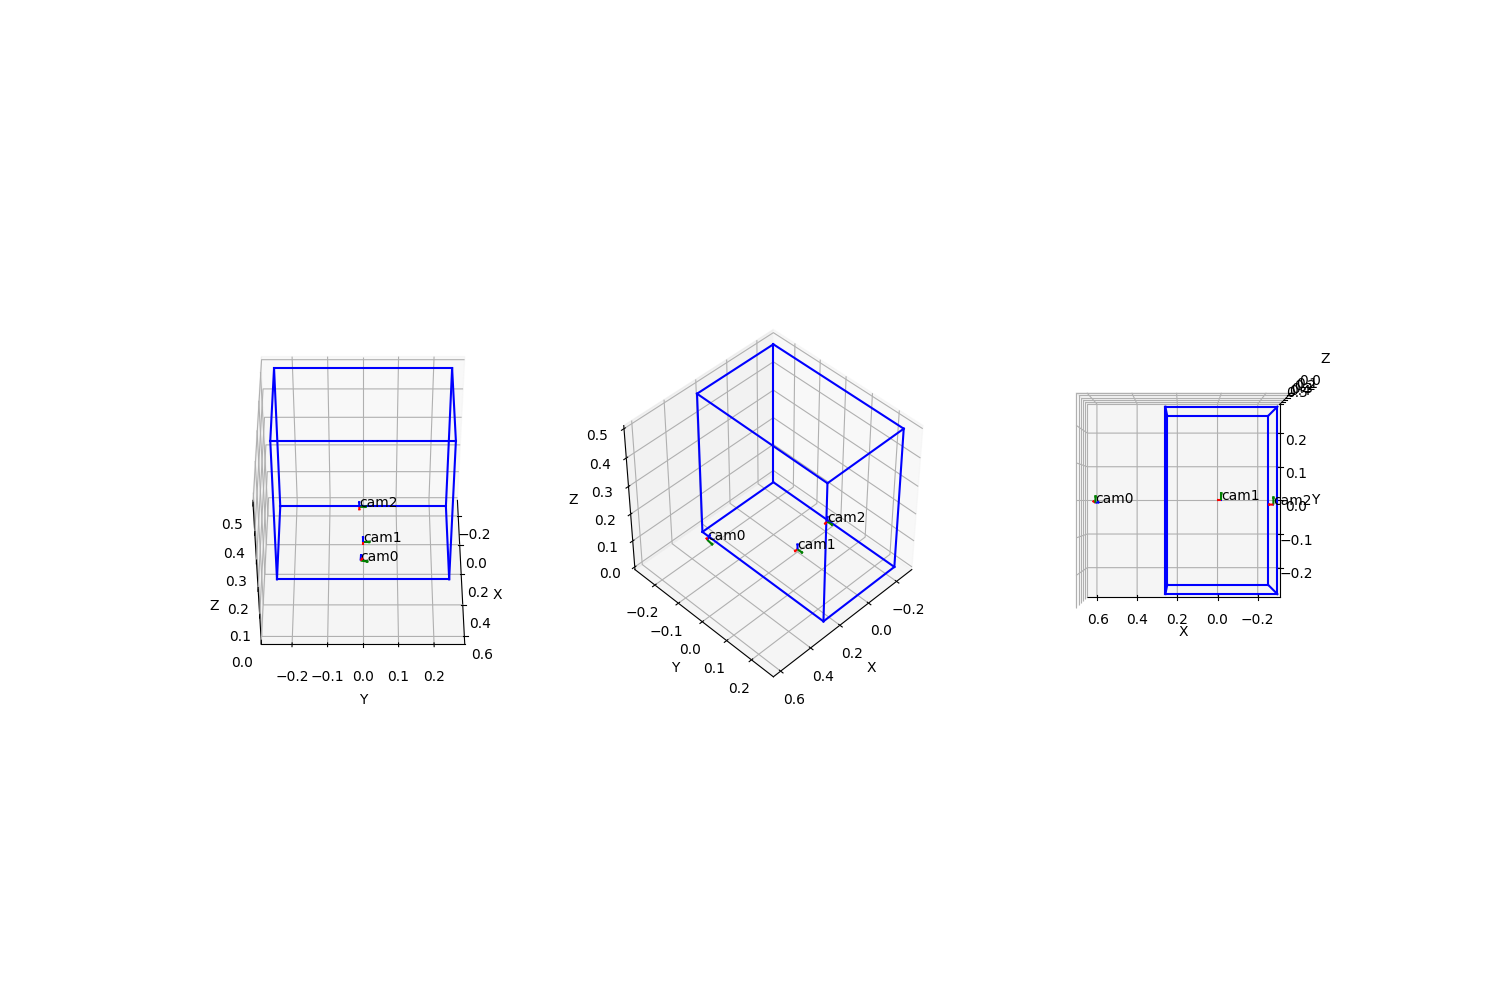
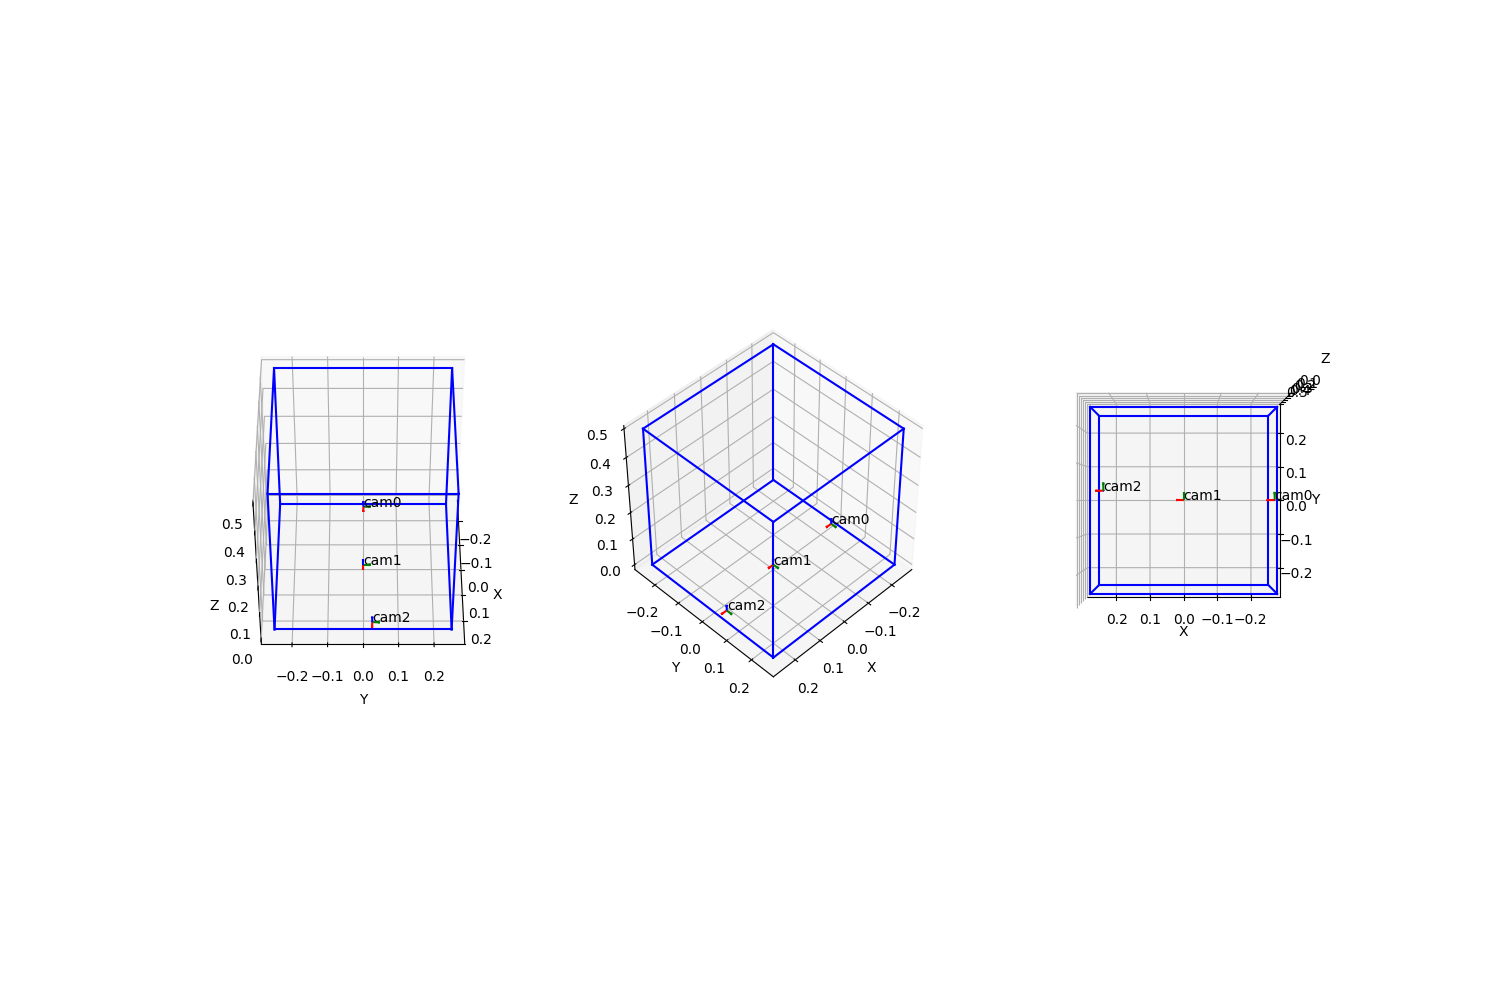
Use charuco pattern to calibrate the camera

diff --git a/Callibration/extrinsic_calibration_charuco.py b/Callibration/extrinsic_calibration_charuco.py
@@ -8,6 +8,7 @@ import time
 import random
 import tqdm
 import pickle
+import matplotlib.pyplot as plt
 from scipy.spatial.transform import Rotation as R
 random.seed(time.time())
 
@@ -104,10 +105,6 @@ class ExtrinsicCalibrationCharuco:
         camera_Ts = np.array(camera_Ts)
         center_Rs = np.array(center_Rs)
         center_Ts = np.array(center_Ts)
-        print(camera_Rs.shape)
-        print(camera_Ts.shape)
-        print(center_Rs.shape)
-        print(center_Ts.shape)
         
         if weighted:
             pass
@@ -118,14 +115,18 @@ class ExtrinsicCalibrationCharuco:
         with open(f'results/extrinsic_calibration.log', 'a') as f:
             f.write(f'{camera_name} has {camera_Ts.shape[0]} points\n')
         
-        R, t, rmsd = self.point_cloud_matching(camera_Ts, center_Ts, weight)
+        Rotation, transformation, rmsd = self.point_cloud_matching(camera_Ts, center_Ts, weight)
         print(f'{camera_name} has RMSD: {rmsd}')
         with open(f'results/extrinsic_calibration.log', 'a') as f:
             f.write(f'{camera_name} has RMSD: {rmsd}\n')
         
         self.camera_extrinsic[camera_name] = np.eye(4)
-        self.camera_extrinsic[camera_name][:3, :3] = R.as_matrix()
-        self.camera_extrinsic[camera_name][:3, 3] = t
+        self.camera_extrinsic[camera_name][:3, :3] = Rotation.as_matrix()
+        self.camera_extrinsic[camera_name][:3, 3] = transformation
+        
+        print(f'{camera_name} transformation matrix: {self.camera_extrinsic[camera_name]}')
+        with open(f'results/extrinsic_calibration.log', 'a') as f:
+            f.write(f'{camera_name} transformation matrix: {self.camera_extrinsic[camera_name]}\n')
         
         pickle.dump(self.camera_extrinsic, open(f'results/extrinsic_{camera_name}.pkl', 'wb'))
     
@@ -136,15 +137,15 @@ class ExtrinsicCalibrationCharuco:
     # weight: (N,)
     def point_cloud_matching(self, P, Q, weight):
         assert P.shape == Q.shape
-        assert weight.shape == P.shape[0]
+        assert weight.shape[0] == P.shape[0]
 
         transformation = (Q - P) * weight[:, np.newaxis]
         transformation = transformation.sum(axis=0) / weight.sum()
         
         P_prime = P + transformation
         
-        R, rssd, sse = R.align_vectors(Q, P_prime, weights=weight)
-        return R, transformation, rmsd
+        Rotation, rmsd = R.align_vectors(Q, P_prime, weights=weight)
+        return Rotation, transformation, rmsd
     
     def evaluate(self):
         fig = plt.figure(figsize=(15, 10))
@@ -155,11 +156,6 @@ class ExtrinsicCalibrationCharuco:
         
         
     def visualize_camera_location(self, settings, fig, elev, azim, roll, i):
-        transformation_matrices = {}
-        for camera_name in settings.cameras:
-            transformation_matrix = pickle.load(open(f'results/extrinsic_{camera_name}.pkl', 'rb'))
-            transformation_matrices[camera_name] = transformation_matrix
-                
         ax = fig.add_subplot(1, 3, i, projection='3d', elev=elev, azim=azim, roll=roll)
         ax.set_box_aspect([1,1,1])
         length = 0.5
@@ -185,10 +181,10 @@ class ExtrinsicCalibrationCharuco:
             colors = ['red', 'green', 'blue']
             axis = np.eye(3) * settings.pattern_square_size_external
             for i in range(3):
-                orientation = transformation_matrices[camera_name][:3, :3] @ axis[i, :]
-                x = transformation_matrices[camera_name][0, 3]
-                y = transformation_matrices[camera_name][1, 3]
-                z = transformation_matrices[camera_name][2, 3]
+                orientation = self.camera_extrinsic[camera_name][:3, :3] @ axis[i, :]
+                x = self.camera_extrinsic[camera_name][0, 3]
+                y = self.camera_extrinsic[camera_name][1, 3]
+                z = self.camera_extrinsic[camera_name][2, 3]
                 u = orientation[0]
                 v = orientation[1]
                 w = orientation[2]
